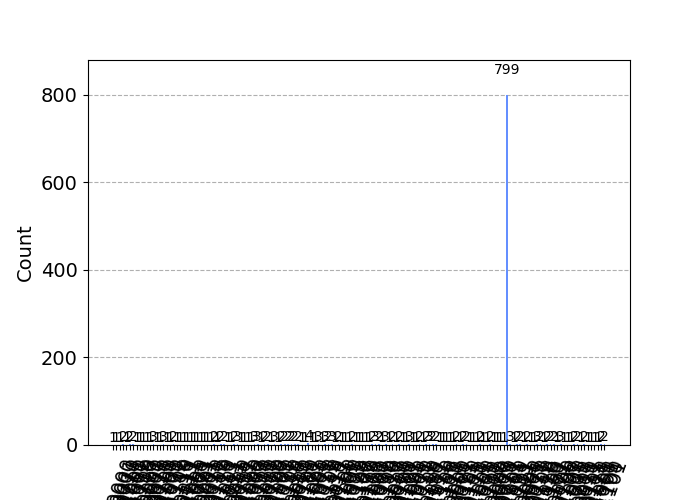
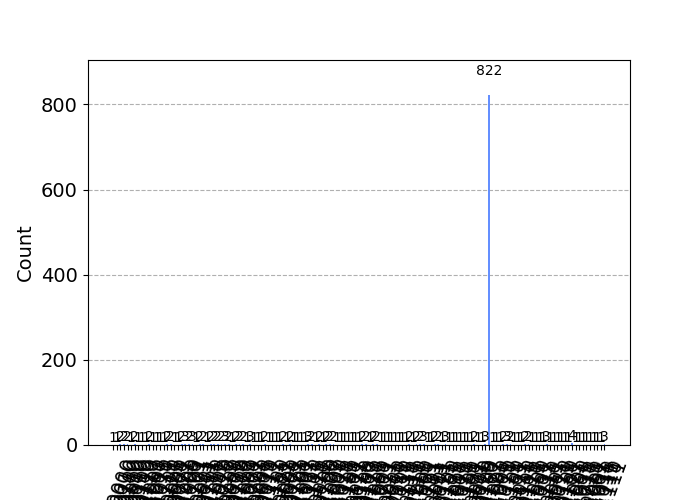
Working on Simon's algorithm

diff --git a/simon/simon.py b/simon/simon.py
@@ -1,0 +1,34 @@
+from qiskit import QuantumCircuit, QuantumRegister, ClassicalRegister, transpile
+# from qiskit_ibm_runtime import *
+from qiskit_aer import Aer
+from qiskit.visualization import plot_histogram
+from qiskit.circuit.library import UnitaryGate
+from matplotlib import pyplot
+
+# number of qubits
+n = 3
+
+def f(x):
+    """ Our 2-1 function with iff f(x) = f(y) then x + y = 0,s """
+    return x % 4
+
+if __name__ == "__main__":
+    # TODO: build Simon's black box
+    Uf = [[1 if i == j else 0 for j in range(2**(2*n))] for i in range(2**(2*n))]
+    Uf = UnitaryGate(Uf, label="Uf")
+
+    x = QuantumRegister(n, "x")
+    y = QuantumRegister(n, "y")
+    c = ClassicalRegister(n, "c")
+    qc = QuantumCircuit(x, y, c)
+    qc.h(range(n))
+    qc.append(Uf, range(2*n))
+    qc.h(range(n))
+    qc.measure(range(n), range(n))
+
+    qc.draw("mpl", style="iqp", filename="simon")
+
+    backend = Aer.get_backend("qasm_simulator")
+    qc = transpile(qc, backend=backend)
+    result = backend.run(qc, shots=1024).result()
+    plot_histogram(result.get_counts(), filename="histogram-simon.png")
